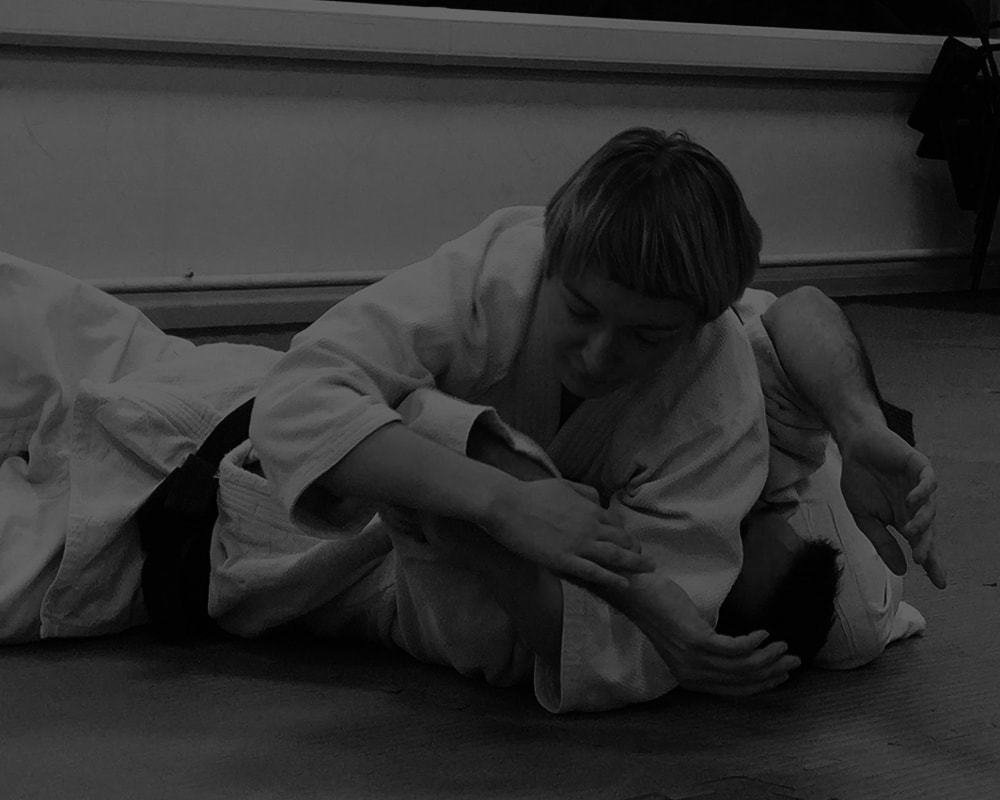
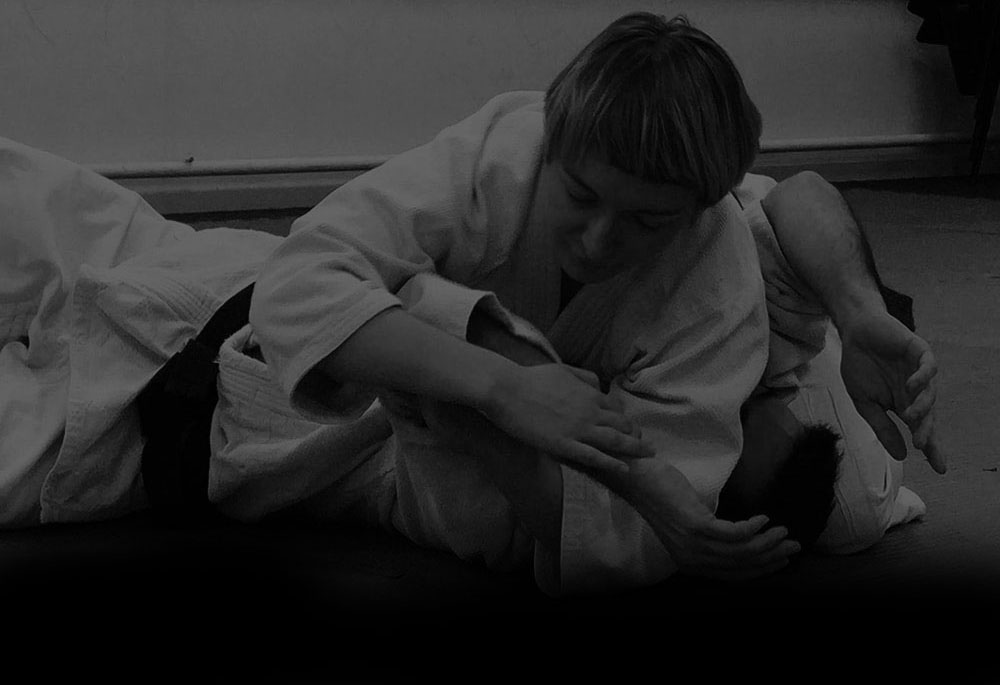
Initial styles and edits

diff --git a/static/styles/styles.css b/static/styles/styles.css
@@ -14,7 +14,9 @@
 :root {
   --color-key: #ed2024;
   --color-key-dark: #c12126;
+  --color-bg: #000;
   --typeface-base: 'Open Sans';
+  --size-site-maxwidth: 70rem;
 }
 
 /**
@@ -76,93 +78,82 @@ a {
   display: grid;
   margin-top: 2em;
   grid-gap: 2rem;
+  grid-template-columns: repeat(auto-fit, minmax(20rem, 1fr));
   list-style: none;
 }
 .gallery-image {
   filter: grayscale(100%);
 }
+.hero-text {
+  font-size: 1.5em;
+  text-align: center;
+}
+.hero-text::after {
+  background: var(--color-key);
+  border-radius: 1rem;
+  content:' ';
+  display: block;
+  height: .3rem;
+  margin: 2rem auto;
+  max-width: 90%;
+  width: 10rem;
+}
+.site-maxwidth-wrapper {
+  margin: auto;
+  max-width: var(--size-site-maxwidth);
+}
 
 /**
  * Define layout styles
  */
-.site-wrapper {
-}
-.site-header {
+
+html {
+  background-image: 
+    linear-gradient(to bottom, rgba(0,0,0,.8), transparent),
+    url('../images/background-large.jpg');
+  background-size: 
+    100% 30rem,
+    100% auto
+  ;
+  background-repeat: no-repeat;
+  background-position: 
+    top center;
+  background-color: var(--color-bg);
+ }
+.site-header .site-maxwidth-wrapper {
   position: relative;
   display: flex;
-  margin-bottom: 2rem;
-  min-height: 100vh;
+  justify-content: space-between;
   align-items: center;
-  justify-content: center;
-  background: url('../images/background.jpg') center center / cover no-repeat;
 }
 .site-logo {
   background: url('../images/logo.svg') center center / contain no-repeat;
-  width: 20rem;
-  height: 20rem;
+  width: 10rem;
+  height: 10rem;
+  margin: 4rem;
   text-indent: 110%;
   white-space: nowrap;
   overflow: hidden;
 }
-@keyframes bounce {
-  0% {
-    transform: translateY(0);
-  }
-  50% {
-    transform: translateY(-1rem);
-  }
-  100% {
-    transform: translateY(0);
-  }
+.site-nav-items {
+  display: flex;
+  list-style: none;
+  padding: 2rem;
 }
-.scroll-prompt {
-  position: absolute;
-  bottom: 8rem;
-  left: calc(50% - 1rem);
-  display: block;
-  width: 2rem;
-  height: 2rem;
-  animation: bounce 1s infinite;
-}
-.scroll-prompt::after {
-    content:' ';
-    display: block;
-    width: 100%;
-    height: 100%;
-    border-top: .5rem solid var(--color-key);
-    border-right: .5rem solid var(--color-key);
-    transform: rotateZ(135deg);
+.site-nav-item-link {
+  font-size: 1.8rem;
+  color: white;
+  text-decoration: none;
+  padding: 2rem;
 }
 .site-content {
   background: white;
-}
-.site-content-inner {
-  max-width: 60rem;
-  width: auto;
-  margin: auto;
-  padding: 4rem 2rem;
-}
-.site-content-inner > p:first-child {
-  font-size: 1.5em;
-  font-weight: bold;
-  text-align: center;
-}
-.site-content-inner > p:first-child::after {
-  content:' ';
-  background: var(--color-key);
-  display: block;
-  margin: 4rem auto;
-  width: 4rem;
-  height: .2rem;
+  padding: 4rem;
 }
 .site-footer {
   color: white;
-  background: url('../images/background.jpg') bottom center / cover no-repeat;
 }
 .site-footer-inner {
-  max-width: 60rem;
-  width: auto;
-  margin: auto;
   padding: 4rem 2rem;
   text-align: center;
 }
@@ -176,26 +167,8 @@ a {
     background-color: var(--color-key-dark);
   }
 }
-@media screen and (min-width: 31em) {
-  body {
-    background: url('../images/background-large.jpg') center center / cover no-repeat fixed black;
-  }
-  .gallery {
-    grid-template-columns: repeat(2, 1fr);
-  }
-  .scroll-prompt {
-    width: 4rem;
-    height: 4rem;
-    left: calc(50% - 2rem);
-  }
-  .site-header {
-    background-image: none;
-  }
-  .site-logo {
-     width: 30rem;
-     height: 30rem;
-  }
-  .site-footer {
-    background-image: none;
+@media screen and (min-width: 700px) {
+  .site-content {
+    border-radius: 1rem;
   }
 }

diff --git a/index.html b/index.html
@@ -8,18 +8,29 @@
     <link rel="stylesheet" href="./static/styles/styles.css" />
   </head>
   <body>
-    <main class="site-wrapper">
+    <div class="site-wrapper">
       <header class="site-header">
-        <h1 class="site-logo">LCC Jiu Jitsu</h1>
-        <span class="scroll-prompt"></span>
+        <div class="site-maxwidth-wrapper">
+          <a class="site-logo" href="/">LCC Jiu Jitsu</a>
+          <nav class="site-nav">
+            <ul class="site-nav-items">
+              <li class="site-nav-item">
+                <a class="site-nav-item-link" href="/">Home</a>
+              </li>
+              <li class="site-nav-item">
+                <a class="site-nav-item-link" href="/about.html">About</a>
+              </li>
+            </ul>
+          </nav>
+        </div>
       </header>
-      <div class="site-content">
-        <div class="site-content-inner">
-          <p>We are part of Aiuchi Jiu Jitsu and practise throwing, locks, ground fighting
-            and self defence techniques
+      <div class="site-maxwidth-wrapper">
+        <main class="site-content">
+          <p class="hero-text">We are part of Aiuchi Jiu Jitsu and practise throwing, locks, ground fighting
+            and self defence techniques.
           <p>We train every Thursday from 6-8pm in Room T304 at the London College of Communication (LCC).</p>
-          <p>Everybody is welcome. It's fun, friendly and free!</p>
-          <p>Feel free to message us on <a href="https://www.facebook.com/LCC.Aiuchi">our facebook page</a> for more info. We're always happy to chat and to help you find our dojo :)</p>
+          <p>Everybody is welcome. It's fun, friendly and only £3 a session! (First session <strong>Free)</strong></p>
+          <p>Chat with us on <a href="http://m.me/LCC.Aiuchi">Facebook Messenger</a> for more info. We're always happy to answer any questions and to help you find our dojo :)</p>
           <ul class="gallery">
             <li class="gallery-image">
               <img
@@ -46,7 +57,7 @@
               />
             </li>
           </ul>
-        </div>
+        </main>
       </div>
       <footer class="site-footer">
         <div class="site-footer-inner">
@@ -57,7 +68,7 @@
           </p>
         </div>
       </footer>
-    </main>
+    </div>
     <script async src="https://www.googletagmanager.com/gtag/js?id=UA-120158984-1"></script>
     <script>
       window.dataLayer = window.dataLayer || [];

diff --git a/about.html b/about.html
@@ -10,14 +10,27 @@
 </head>
 
 <body>
-    <main class="site-wrapper">
+    <div class="site-wrapper">
         <header class="site-header">
-            <h1 class="site-logo">LCC Jiu Jitsu</h1>
-        </header>
-        <div class="site-content">
-            <div class="site-content-inner">
-              <h1>About us</h1>
+            <div class="site-maxwidth-wrapper">
+                <a class="site-logo" href="/">LCC Jiu Jitsu</a>
+                <nav class="site-nav">
+                    <ul class="site-nav-items">
+                        <li class="site-nav-item">
+                            <a class="site-nav-item-link" href="/">Home</a>
+                        </li>
+                        <li class="site-nav-item">
+                            <a class="site-nav-item-link" href="/about.html">About</a>
+                        </li>
+                    </ul>
+                </nav>
             </div>
+        </header>
+        <div class="site-maxwidth-wrapper">
+            <main class="site-content">
+                <p class="hero-text">We are part of Aiuchi Jiu Jitsu and practise throwing, locks, ground fighting
+                    and self defence techniques</p>
+            </main>
         </div>
         <footer class="site-footer">
             <div class="site-footer-inner">
@@ -28,7 +41,7 @@
                 </p>
             </div>
         </footer>
-    </main>
+    </div>
     <script async src="https://www.googletagmanager.com/gtag/js?id=UA-120158984-1"></script>
     <script>
         window.dataLayer = window.dataLayer || [];
